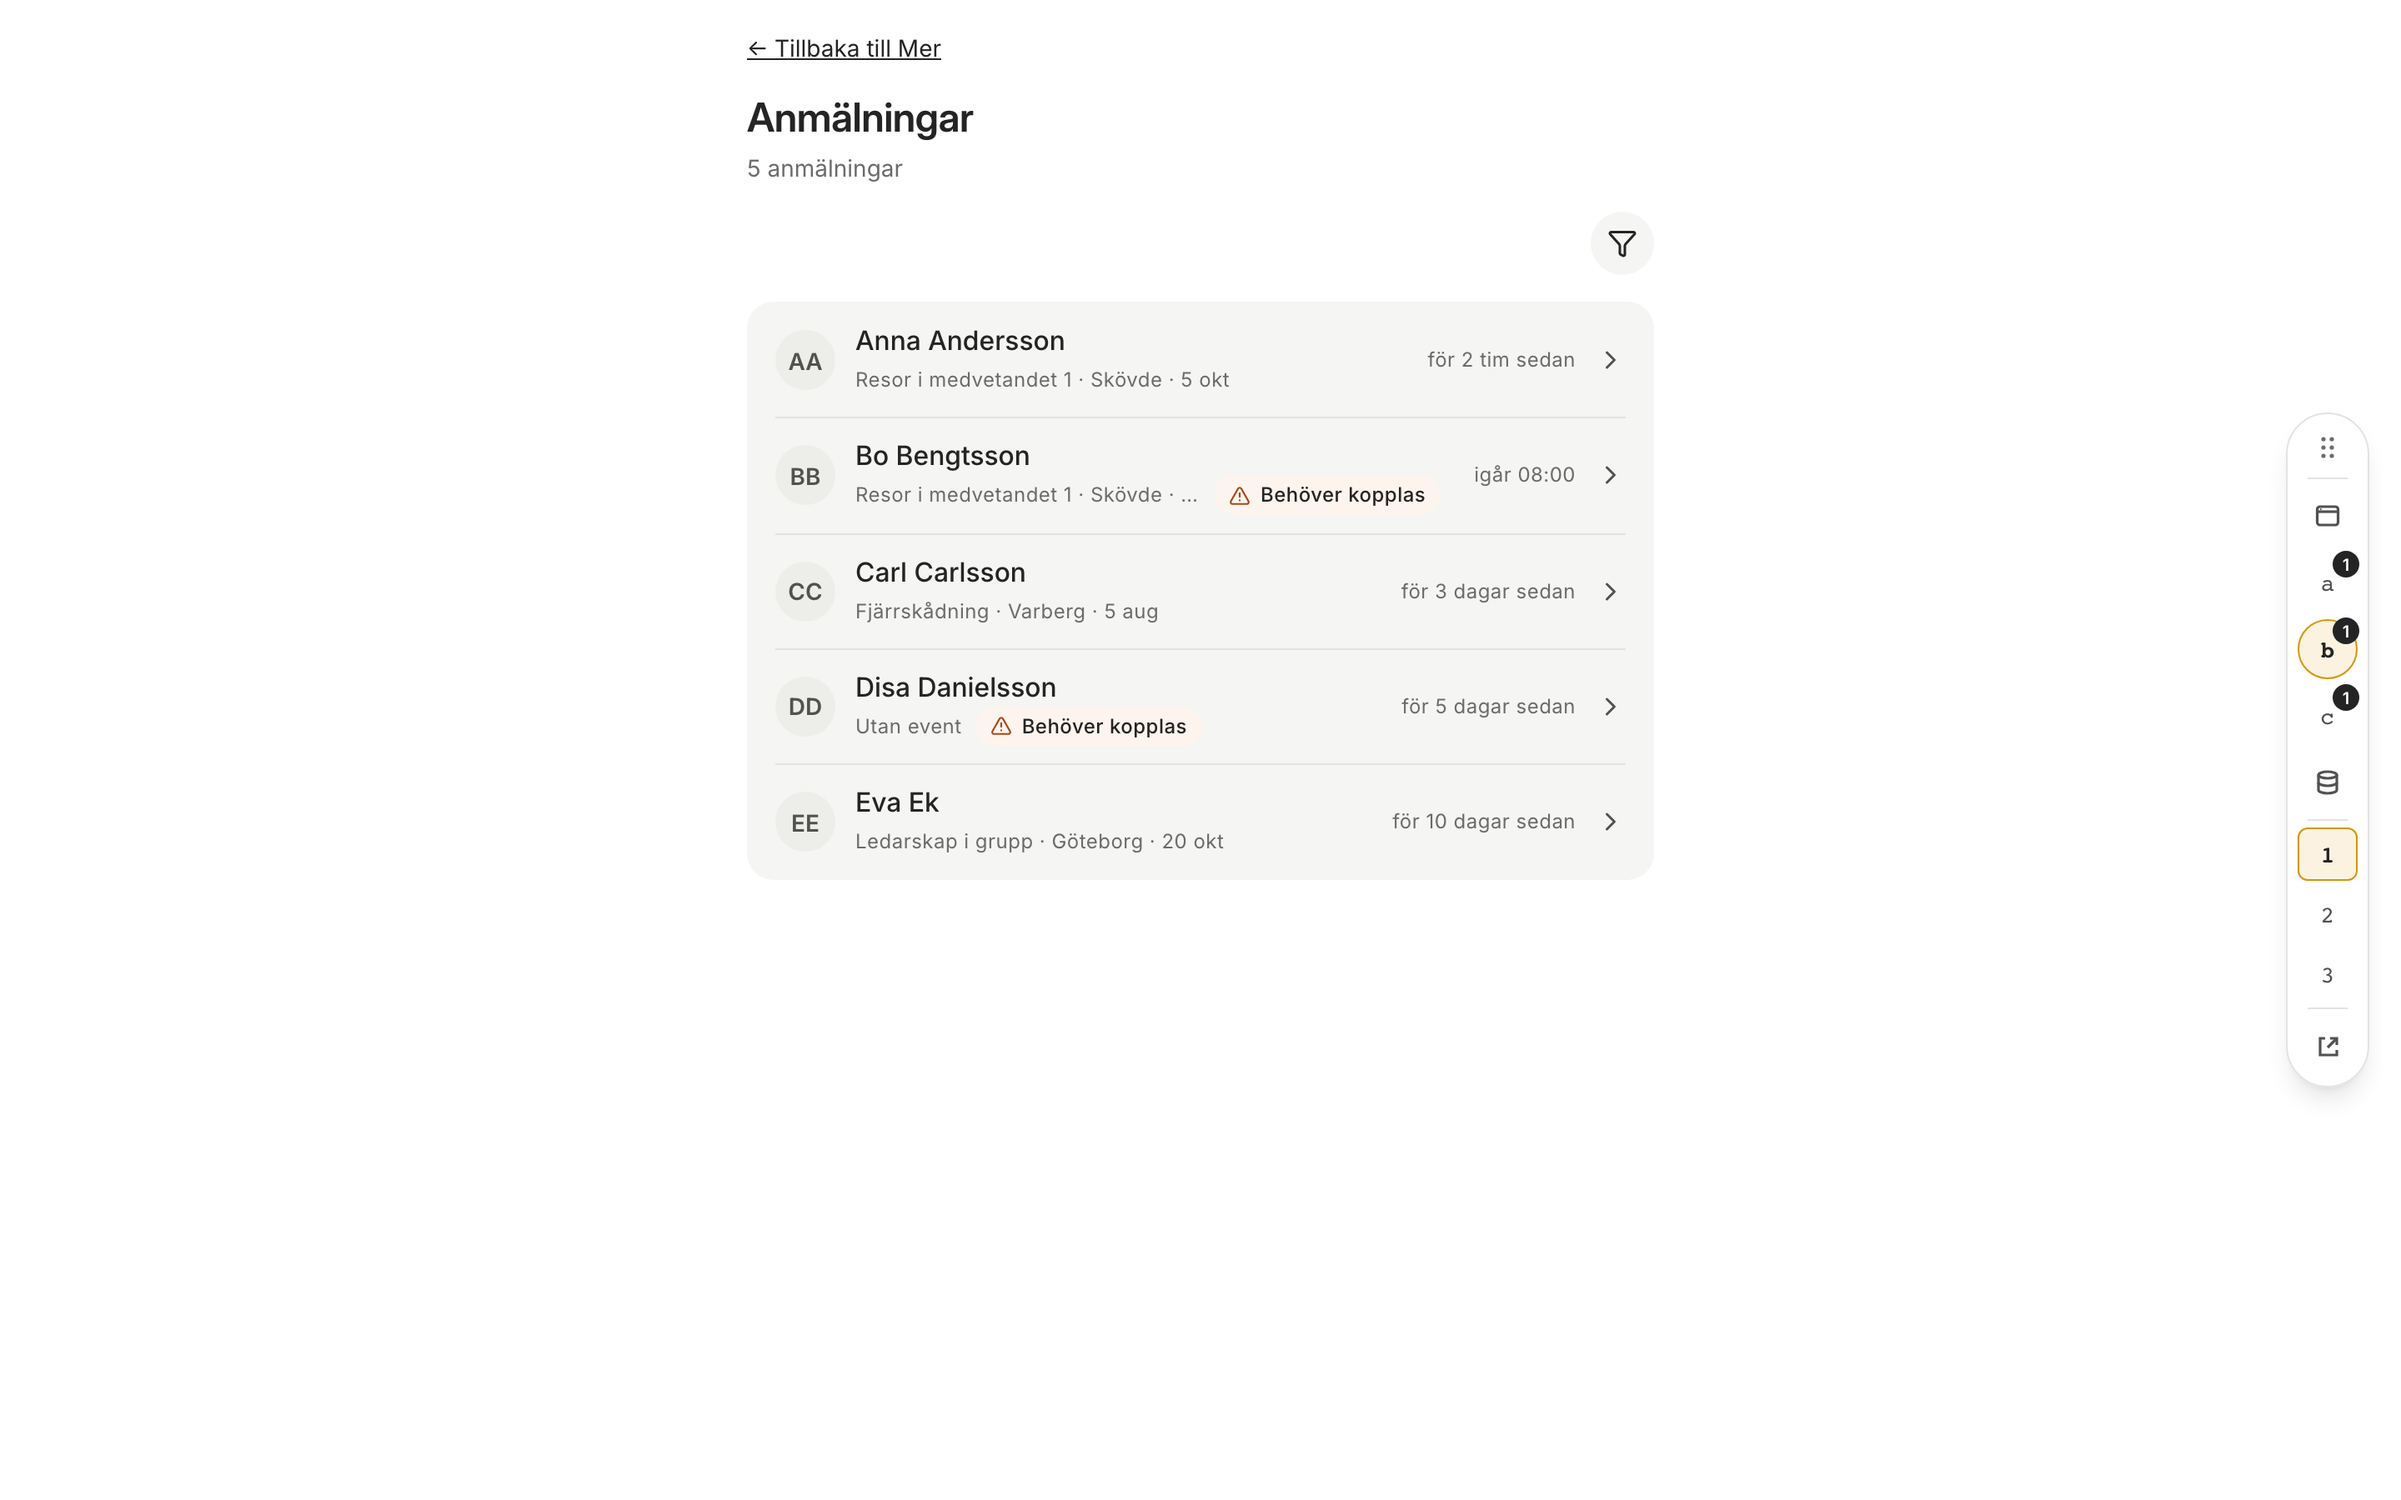
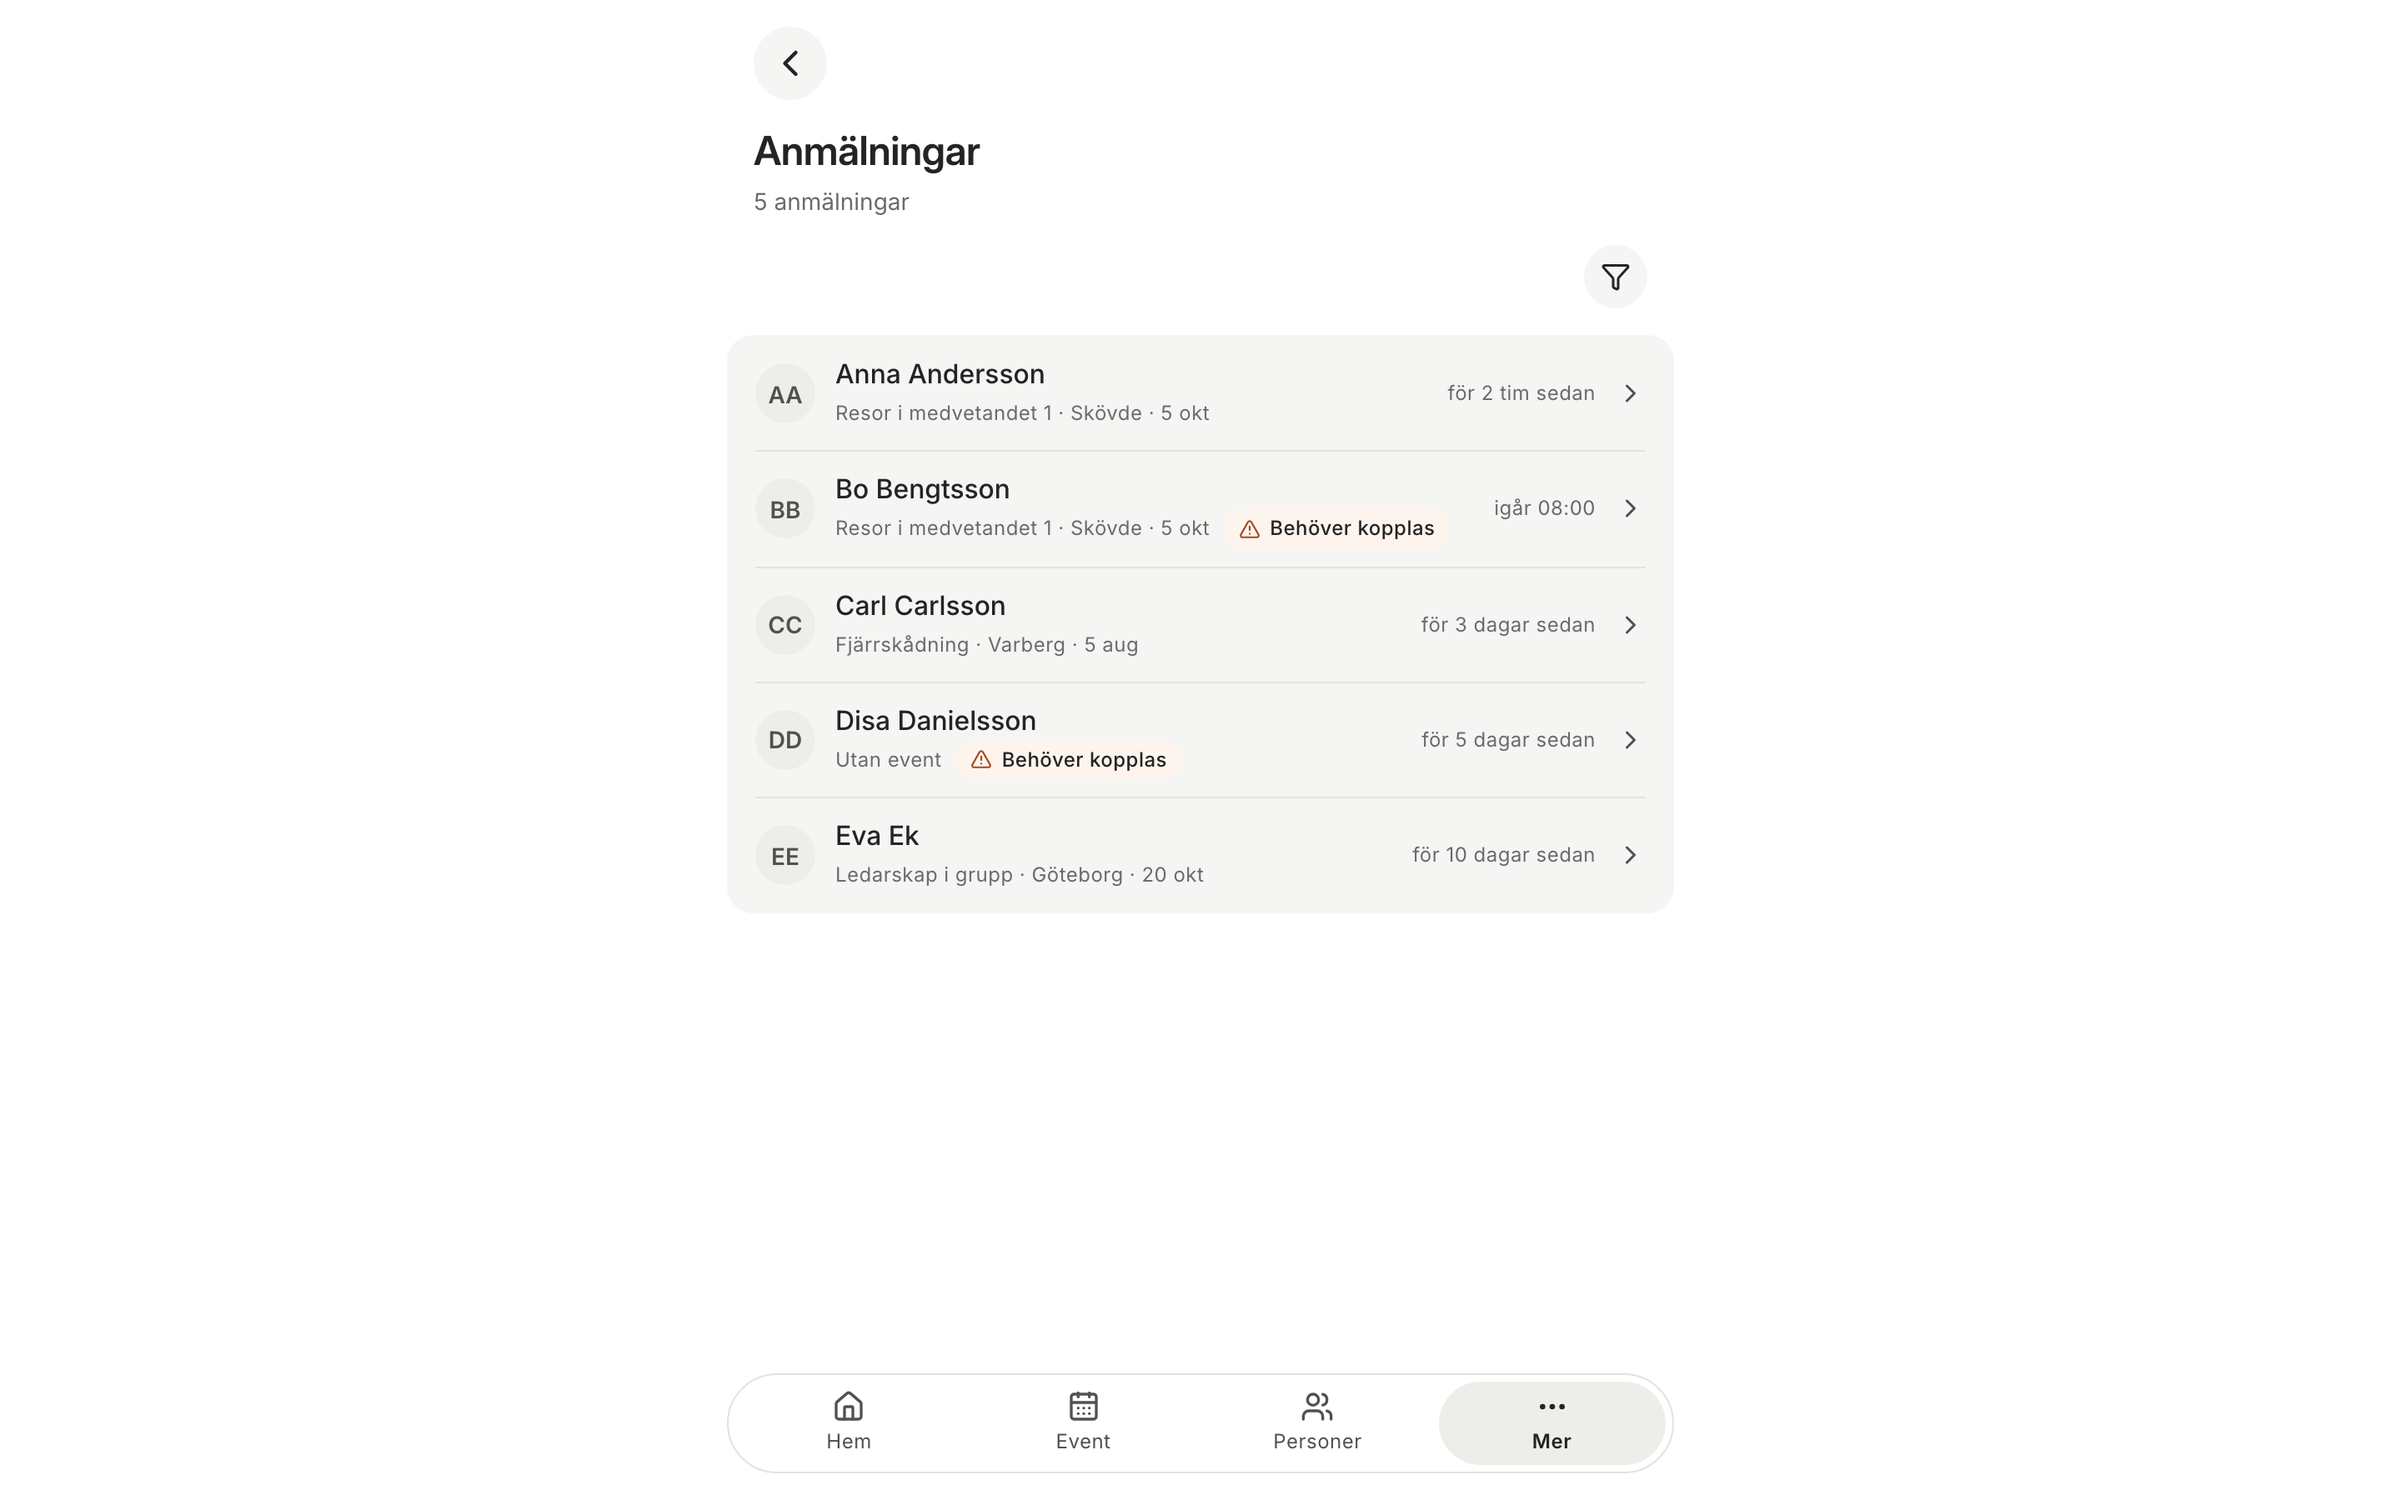
docs(TASK-299.10): ta om anmälningssidans facit-bilder + amendering (c)
De sju facit-bilderna visade den gamla textlänken; retagna med den
skarpa /mer/anmalningar-routen (samma hermetiska rigg och fixturdata
som TASK-299.4:s ursprungliga capture) för att visa SidRam-chevronen
och den justerade innehållskolumnen.

facit.json är agent-fryst (ADR-104) — AMENDERING-2026-08-23-sidram.md
bokför klass (c) (synlig formändring, ADR-102 § A2) och väntar Marcus
omstämpling. godkand-fältet är orört.

diff --git a/tasks/sessions/bilagor/s111-anmalningssidan-konvergens/AMENDERING-2026-08-23-sidram.md b/tasks/sessions/bilagor/s111-anmalningssidan-konvergens/AMENDERING-2026-08-23-sidram.md
@@ -1,0 +1,141 @@
+# Amendering 2026-08-23 — husets delade SidRam-primitiv ersätter anmälningssidans textlänk (TASK-299.10)
+
+> Denna sidofil finns för att `facit.json` är AGENT-FRUSET: `ADR-104`-hooken
+> (`scripts/deny-facit-godkand-skrivning.sh`) nekar varje agent-`Edit`/`Write`
+> mot ett manifest vars `godkand` är satt — oavsett om skrivningen rör fältet
+> självt. Bokföringen bor därför i en sidofil bredvid manifestet, formen
+> kanoniserad i `ADR-102` § Updates 2026-08-22 § A3. `godkand`-fältet i
+> `facit.json` är INTE rört av denna commit.
+
+**Yta:** anmälningssidan (`facit.json`s enda `ytor`-post, godkänd
+2026-08-23, citat "Det blir bra.", sha
+`d3858a29b09dc4a5a6184357eda82d5c04f3d4f8`; källor
+`src/components/dev/anmalningar-prototyp/VariantB.tsx` m.fl. — riven källa,
+se `check-facit.sh`s rivnings-klausul).
+
+**Avvikelse:** Sidkromet — textlänken `← Tillbaka till Mer`
+(`<Link to="/mer" className="mb-4 inline-block text-small underline">`),
+byggd av `TASK-299.5` när ytan promoverades ur prototypen — är ersatt av
+husets delade `SidRam`-primitiv (`src/components/primitives/SidRam.tsx`,
+`TASK-299.1`, PRD `TASK-299` beslut 2–3+5), samma form Väntelistan
+(`TASK-299.7`), Dokument-ytan (`TASK-299.11`) och Aktivitetshistorik
+(`TASK-299.6`-spec/`TASK-299.11`) redan bär. Missen fångades av Marcus i
+QA på förhandsgranskningsbygget 2026-08-23, citat: *"Ser bra ut. Men varför
+har inte anmälningssidan bakåtchevronen?"* — PRD `TASK-299` beslutade redan
+2026-08-22 att sidramen bärs av ALLA Mer-sidor inklusive anmälningssidan,
+och `DESIGN-SYSTEM-SPEC.md` § 23 listade den uttryckligen som "tillkommer
+när TASK-299.5 landar" — men TASK-299.5:s promoverings-skiva behöll av
+misstag den gamla textlänkens form i stället, och facit-bilderna (tagna
+samma dag) ärvde den missen.
+
+Rubriken lever kvar som egen `<h1>` i sidans eget `<header>` (PRD `TASK-299`
+§ OMFATTNINGEN LÅST punkt 2 — bara sidkromet, `SidRam`s rubrik-ägande gren
+används INTE här — identiskt med Väntelistans/Dokument-ytans val).
+
+**Den genuina formskillnaden, mätt (`boundingBox()`, hermetisk fixturvärld,
+5 registreringar/3 event, samma fixturdata som facit-bildtagningen):**
+
+| Element | Före (x, 1280 px) | Efter (x, 1280 px) | Före (x, 375 px) | Efter (x, 375 px) |
+|---|---|---|---|---|
+| Chevron/tillbakalänk | (textlänk, ingen egen indragning utöver `<main>`s `px-4`) | **372** | — | **32** |
+| `<h1>` "Anmälningar" | 356 | **372** | 16 | **32** |
+| Filterknappens högerkant | 924 | **908** | 359 | **343** |
+| Tomt-/felläget, skelettets rubrikrad | 356 | **372** | 16 | **32** |
+| Listkortet (`<ul>`) — **MEDVETET UNDANTAGET** | 356 | **356** (oförändrad) | 16 | **16** (oförändrad) |
+
+Chevronen/rubriken/filterraden/tomt-/felläget/skelettets rubrikrad flyttar
+alla 16 px åt höger och landar på x=372 — samma linje väntelistans redan
+promoverade form bär (mätt i samma körning: chevron/h1 vid x=372, 1280 px).
+
+**LISTKORTET ÄR MEDVETET UNDANTAGET från indragningen — en avvikelse från
+`TASK-299.11`s precedent (Aktivitetshistoriks "dagsgruppernas kort" fick SAMMA
+indragning som rubriken), grundad i en mätt regression:**
+
+En rak `px-4` på ankaret UTAN undantag drog ytterligare 32 px (16 px per
+sida) från radens `minmax(0,1fr)`-innehållskolumn — samma kolumn
+`mer-anmalningar-form.acceptance.test.ts` § Radanatomin vid MOBIL bredd
+bevakar sedan en verklig bugg 2026-08-23 (statusbadge + tidskolumn klämde
+namnet till två pixlar vid 375 px). Mätt EXAKT: namnkolumnen föll från
+98,671875 px (den siffra § SIDMARGINALEN i `AnmalningarSida.tsx`s docblock
+redan dokumenterar) till **66,671875 px** — under grindens golv på 80,
+grinden röd.
+
+Fixen: `<ul>` (och dess laddnings-skelett) bär `-mx-4` utöver sin egen
+befintliga `px-4`/`p-4` — häver ankarets nya indragning och lämnar kortets
+vänsterkant på x=356/16, EXAKT där den stod innan denna landning. Nettot på
+radens tillgängliga bredd är NOLL: namnkolumnen mättes till **98,671875 px**
+efter fixen — identisk med talet före, verifierat i samma körning som
+fällde på 66,671875 (`tests/acceptance/mer-anmalningar-form.acceptance.test.ts`
+rad 971, tillfällig `console.log` i mätningen, riven igen efter avläsning).
+Golvet (läsbarhet, `~/.claude/CLAUDE.md` § Instruktioner: "Golvet ... skärs
+ALDRIG bort i enkelhetens namn") väger tyngre här än pixel-perfekt
+kant-linjering av EN boxad komponent — resten av innehållskolumnen är i
+linje med väntelistans/dokument-ytans/aktivitetshistorikens form. Fullt
+resonemang i komponentens docblock, `AnmalningarSida.tsx` § SIDRAMEN
+(TASK-299.10) OCH NAMNKOLUMNENS GOLV.
+
+Radanatomin, dagsgrupperingen (ej tillämpligt denna yta), filterradens fyra
+kontroller, statusraden och åtgärdsköns återväg är I ÖVRIGT OFÖRÄNDRADE mot
+det godkända facit-manifestet — avvikelsen är avgränsad till sidkromets
+IMPLEMENTATION (delad primitiv i stället för textlänk) och till
+innehållskolumnens vänstermarginal, MED det explicit dokumenterade
+undantaget för listkortet.
+
+**Marcus-grunden:** citatet ovan (QA 2026-08-23) samt PRD `TASK-299` §
+OMFATTNINGEN LÅST punkt 2 (ytaxeln: "jag tycker vi ska köra full omfattning"
+— den delade sidramen bärs av alla ytor, inklusive anmälningssidan;
+ägandeskapsaxeln: bara sidkromet, rubriken lever kvar i sidan).
+
+## Klassning: **(c)** — formen ändras faktiskt, prod-synligt
+
+`ADR-102` § A2 steg 2: **påverkar ändringen vad en användare ser i prod?**
+
+**Ja.** Lotta ser en 44 px rund chevron i stället för en understruken
+textlänk, och innehållskolumnens vänstermarginal flyttar 16 px åt höger för
+rubriken, filterraden, tomt-/felläget och skelettet — en mätbar, renderad
+skillnad (dokumenterad ovan med `boundingBox()`-tal före/efter). Detta är
+inte en artefakt av testfixturen eller miljön (`ADR-102` § A2 skärpning 1)
+— det är en avsiktlig layoutändring en riktig Lotta ser i prod.
+Osäkerhetsregeln ("osäkert ⇒ klass (c)") gör klassningen entydig även om
+skillnaden hade varit mindre tydlig.
+
+## Vad som INTE är amenderat
+
+- Facit-BILDERNA (samtliga sju: `facit-anmalningssidan-{lista,atgardskon,
+  tomt}-{desktop,mobil}.png` + `facit-anmalningssidan-filterpanel-
+  desktop.png`) ÄR ersatta i denna commit — till skillnad från
+  `TASK-299.11`s AktivitetsHistorik-precedent (som lämnade sina bilder en
+  generation bakom) tar denna skiva om samtliga sju med samma hermetiska
+  rigg och samma fixturdata (fem anmälningar/tre event) som den
+  ursprungliga `TASK-299.4`-capturen, ompekad mot den skarpa routen
+  `/mer/anmalningar` (`/dev/anmalningar-prototyp` är riven enligt `ADR-103`
+  B2 steg 4). Mobil-viewportens höjd är samtidigt återställd till
+  konventionens 812 px (var 1100 i ursprungsriggen) — höjdökningen fanns
+  bara för att den nu rivna `PrototypeSwitcher`-railen annars ockluderade
+  radtext; skälet för avvikelsen är borta med resten av
+  dev-prototypsubstratet.
+- Det mekaniska facit (manifestets `not`-fält) är inte omskrivet —
+  `not`-fältets prosa beskriver fortfarande radanatomin, filtrets fyra
+  dimensioner och de tre lägena korrekt; bara sidkromets IMPLEMENTATION
+  och innehållskolumnens vänstermarginal har flyttat.
+- Manifestet deklarerar `"referenser": []` (mekaniskt facit-lås, invariant
+  d) — denna amendering påverkar därför inget hash-låst innehåll
+  (`scripts/check-facit.sh` invariant (d) berörs inte; `bash
+  scripts/check-facit.sh` kördes grönt efter bildbytet).
+- Promoverings-grindens `ariaSnapshot`-referenser
+  (`tests/visual/__aria__/anmalningssidan-promoverings-grind.spec.ts/`)
+  är INTE regenererade — och det är ett mätt fynd, inte en glömska.
+  Snapshotten scopas till `[data-testid="anmalningar-yta"]`, och sidkromet
+  (textlänken förut, `SidRam` nu) står MEDVETET UTANFÖR det ankaret i BÅDA
+  formerna (se `AnmalningarSida.tsx` docblock § YTANS_ANKARE och grindens
+  egen fil-docblock § "Ankaret: formen, inte sidkromet"). Grinden kördes
+  om oförändrad (`npm run test:visual -- tests/visual/anmalningssidan-
+  promoverings-grind.spec.ts`, 18/18 gröna) mot de NYA referenserna utan
+  någon regenerering — noll diff, eftersom det ändrade elementet aldrig låg
+  inom det som jämförs.
+
+## Omstämplings-läge
+
+**Väntar på Marcus omstämpling** (`ADR-104` beslut 1–2, `!`-kanalen,
+`--ersatt`-formen). `godkand`-fältet i `facit.json` rörs INTE av denna
+agent-commit.
